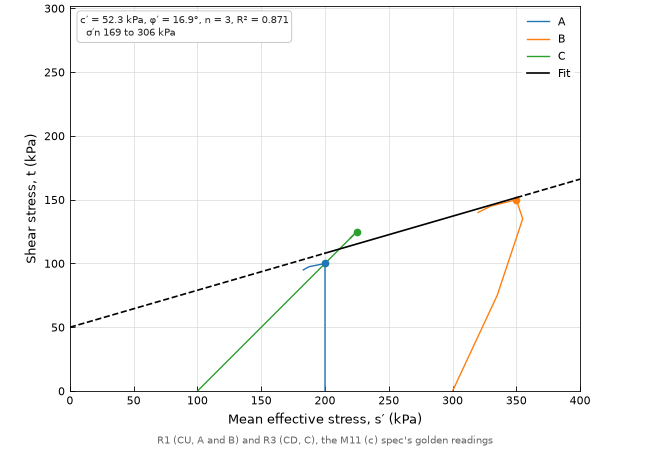
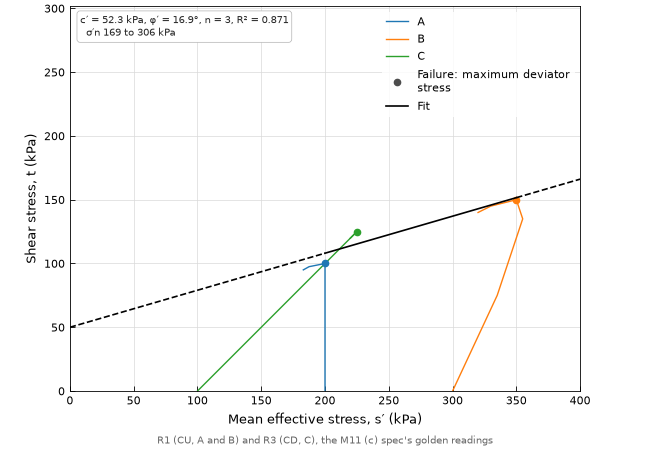
P12: name the failure dot and how it was picked in the legend
The dot wasn't recognizable as the failure reading without reading the spec (review). The legend entry names the criterion, or the lab's reading, so the figure also says which rule picked it (P12 §7).

diff --git a/src/hangtu/plot/_triaxial_shearing.py b/src/hangtu/plot/_triaxial_shearing.py
@@ -15,7 +15,7 @@ from hangtu import units as _units
 from hangtu._settings import _display_units, settings
 from hangtu.analysis._mohr_coulomb import MohrCoulombFit, mohr_coulomb_fit
 from hangtu.analysis._triaxial import EXTENSION, triaxial_failure_stresses
-from hangtu.analysis._triaxial_readings import Reduced, reduce_readings
+from hangtu.analysis._triaxial_readings import CRITERIA, Reduced, reduce_readings
 from hangtu.errors import HangtuError
 from hangtu.plot import _envelope_drawing as envelope
 from hangtu.plot import _layers, _values, style
@@ -203,6 +203,7 @@ def triaxial_shearing(
         stress_unit = _display_stress_unit(reduced, system)
         if space == "stress_strain":
             handles = _draw_curves(ax, reduced, labels, colors, system, notes)
+            handles.append(_failure_handle(failure_criterion))
             if second_axis is not None:
                 handles += _draw_second_axis(
                     ax, reduced, second_axis, labels, colors, system, notes
@@ -223,6 +224,7 @@ def triaxial_shearing(
             handles = _draw_paths(
                 ax, reduced, space, stress, labels, colors, system, stress_unit, notes
             )
+            handles.append(_failure_handle(failure_criterion))
             xlim = ax.get_xlim()
             for cohesion_value, angle, label in user_envelopes:
                 intercept, slope = envelope.line(
@@ -339,6 +341,12 @@ def _display_stress_unit(reduced: Reduced, system: str) -> str | None:
 
 def _display(values: np.ndarray, reduced: Reduced, system: str) -> np.ndarray:
     return _units.to_display(values, reduced.readings.stress_unit, "stress", system)[0]
+
+
+def _failure_handle(criterion: str | None) -> Line2D:
+    """Return the failure dots' legend entry, saying how they were picked."""
+    how = CRITERIA[criterion].lower() if criterion is not None else "lab's reading"
+    return _values.legend_marker("o", "0.3", f"Failure: {how}", MARKER_SIZE)
 
 
 def _legend_entries(

diff --git a/tests/plot/test_triaxial_shearing.py b/tests/plot/test_triaxial_shearing.py
@@ -361,3 +361,22 @@ def test_group_by_colors_and_fits_per_group():
     colors = {line.get_color() for line in lines(ax, "stress_path")}
     assert len(colors) == 2
     assert len(fit.groups) == 2
+
+
+@pytest.mark.parametrize(
+    ("criterion", "text"),
+    [
+        ("max_deviator_stress", "Failure: maximum deviator stress"),
+        ("max_stress_ratio", "Failure: maximum principal stress ratio"),
+        (None, "Failure: lab's reading"),
+    ],
+)
+@pytest.mark.parametrize("space", ["stress_strain", "s_t"])
+def test_the_legend_says_the_dot_is_the_failure_reading(criterion, text, space):
+    df = readings("A", "B")
+    df["reported_failure_reading"] = df["axial_strain"] == 8
+    if criterion is not None:
+        df = df.drop(columns="reported_failure_reading")
+    _, ax, _ = draw(df, space=space, failure_criterion=criterion)
+    labels = [t.get_text().replace("\n", " ") for t in ax.get_legend().get_texts()]
+    assert text in labels

diff --git a/docs/plots/P12-triaxial-shearing.md b/docs/plots/P12-triaxial-shearing.md
@@ -139,7 +139,7 @@ space as P11 §4.
 |---|---|---|---|
 | Curve (`stress_strain`) or path (`s_t`, `p_q`) | solid line per stage, readings in strain order | by stage, else group or `color_by` | one entry per color |
 | Second axis (`stress_strain`) | dashed line per stage, same color | as the curve | "Δu (dashed)" or "ε_v (dashed)" |
-| Failure reading | filled dot, the same reading in every view | as the curve | — |
+| Failure reading | filled dot, the same reading in every view | as the curve | one gray dot saying how it was picked: "Failure: maximum deviator stress", "Failure: maximum principal stress ratio" or "Failure: lab's reading" (*added in review*) |
 | Envelope (`s_t`, `p_q`) | as P11 §7 | as P11 | as P11 |
 | User envelopes | as P11 | | |
 
